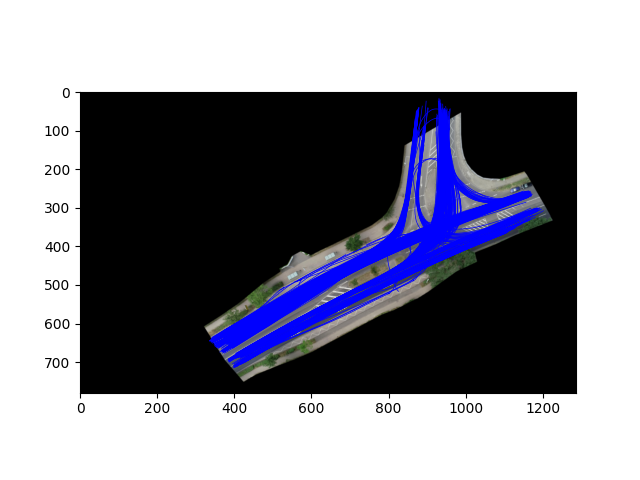
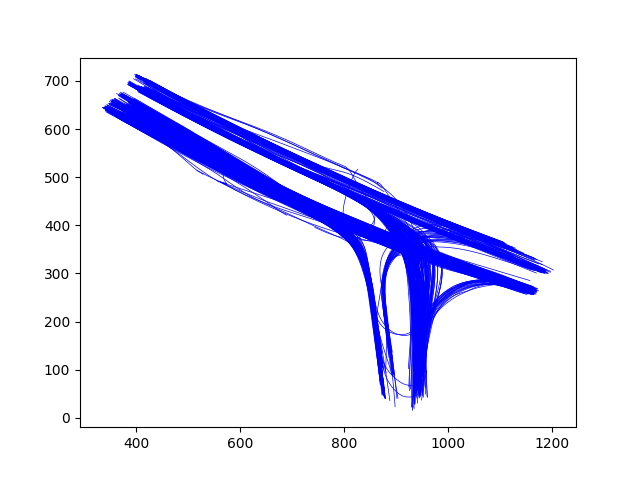
removed unecessary show image code

diff --git a/viz.py b/viz.py
@@ -66,7 +66,6 @@ def showAll(location, output):
                 col = 'yellow'
             ax.plot(scale*(track['xCenter']), -scale*(track['yCenter']), color=col, linewidth=1.0)
 
-    ax.imshow(img)
 
     filepath = output+'/all_vehicles_0'+locid+'.png' 
 
@@ -132,7 +131,6 @@ def showCars(location, output):
             if(vehicle == 'car'):
                 ax.plot(scale*(track['xCenter']), -scale*(track['yCenter']), color=col, linewidth=0.5)
 
-    ax.imshow(img)
 
     filepath = output+'/cars_0'+locid+'.png'
 
@@ -198,7 +196,6 @@ def showBicycles(location, output):
             if(vehicle == 'bicycle'):
                 ax.plot(scale*(track['xCenter']), -scale*(track['yCenter']), color=col, linewidth=0.5)
 
-    ax.imshow(img)
     filepath = output+'/bicycle_0'+locid+'.png'
 
     fig.savefig(filepath)
@@ -264,7 +261,6 @@ def showPedestrian(location, output):
             if(vehicle == 'pedestrian'):
                 ax.plot(scale*(track['xCenter']), -scale*(track['yCenter']), color=col, linewidth=0.5)
 
-    ax.imshow(img)
     filepath = output+'/pedestrian_0'+locid+'.png'
 
     fig.savefig(filepath)
@@ -322,7 +318,6 @@ def showBusesOnly(location, output):
                 ax.plot(scale*(track['xCenter']), -scale*(track['yCenter']), color=col, linewidth=0.5)
                 
 
-    ax.imshow(img)
     filepath = output+'/buses_0'+locid+'.png'
 
     fig.savefig(filepath)
@@ -380,7 +375,6 @@ def showTrucksOnly(location, output):
                 ax.plot(scale*(track['xCenter']), -scale*(track['yCenter']), color=col, linewidth=0.5)
                 
 
-    ax.imshow(img)
     filepath = output+'/trucks_0'+locid+'.png'
 
     fig.savefig(filepath)
@@ -438,7 +432,6 @@ def showSUV(location, output):
                 ax.plot(scale*(track['xCenter']), -scale*(track['yCenter']), color=col, linewidth=0.5)
                 
 
-    ax.imshow(img)
     filepath = output+'/SUVs_0'+locid+'.png'
 
     fig.savefig(filepath)
@@ -496,7 +489,6 @@ def showSedan(location, output):
                 ax.plot(scale*(track['xCenter']), -scale*(track['yCenter']), color=col, linewidth=0.5)
                 
 
-    ax.imshow(img)
     filepath = output+'/Sedans_0'+locid+'.png'
 
     fig.savefig(filepath)
